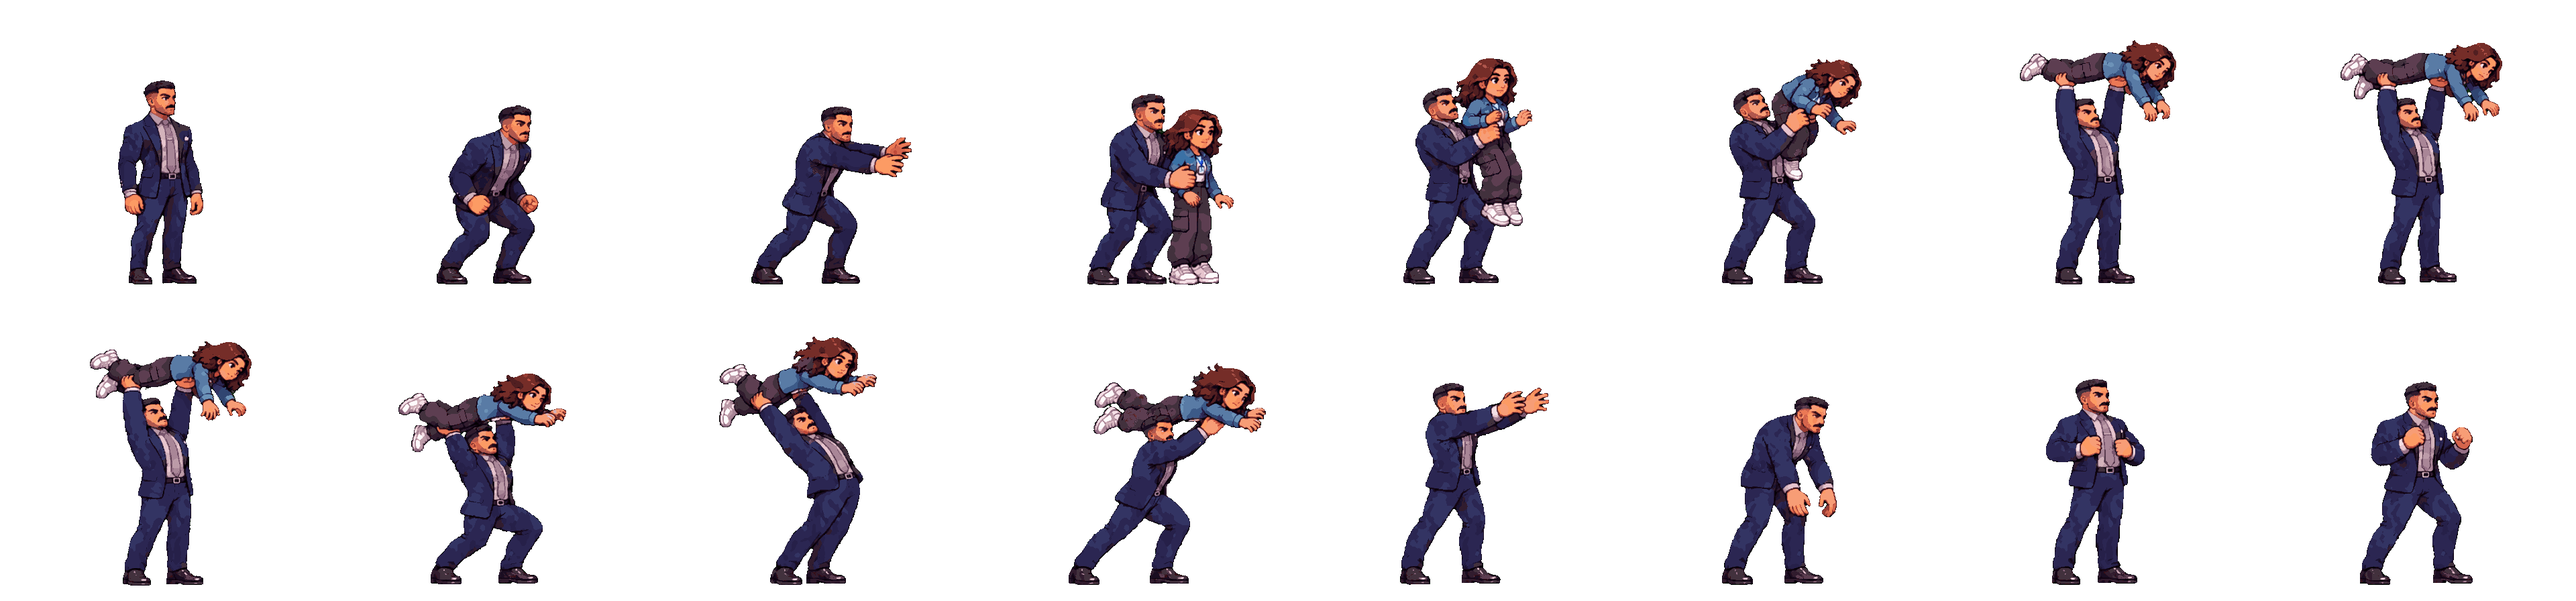
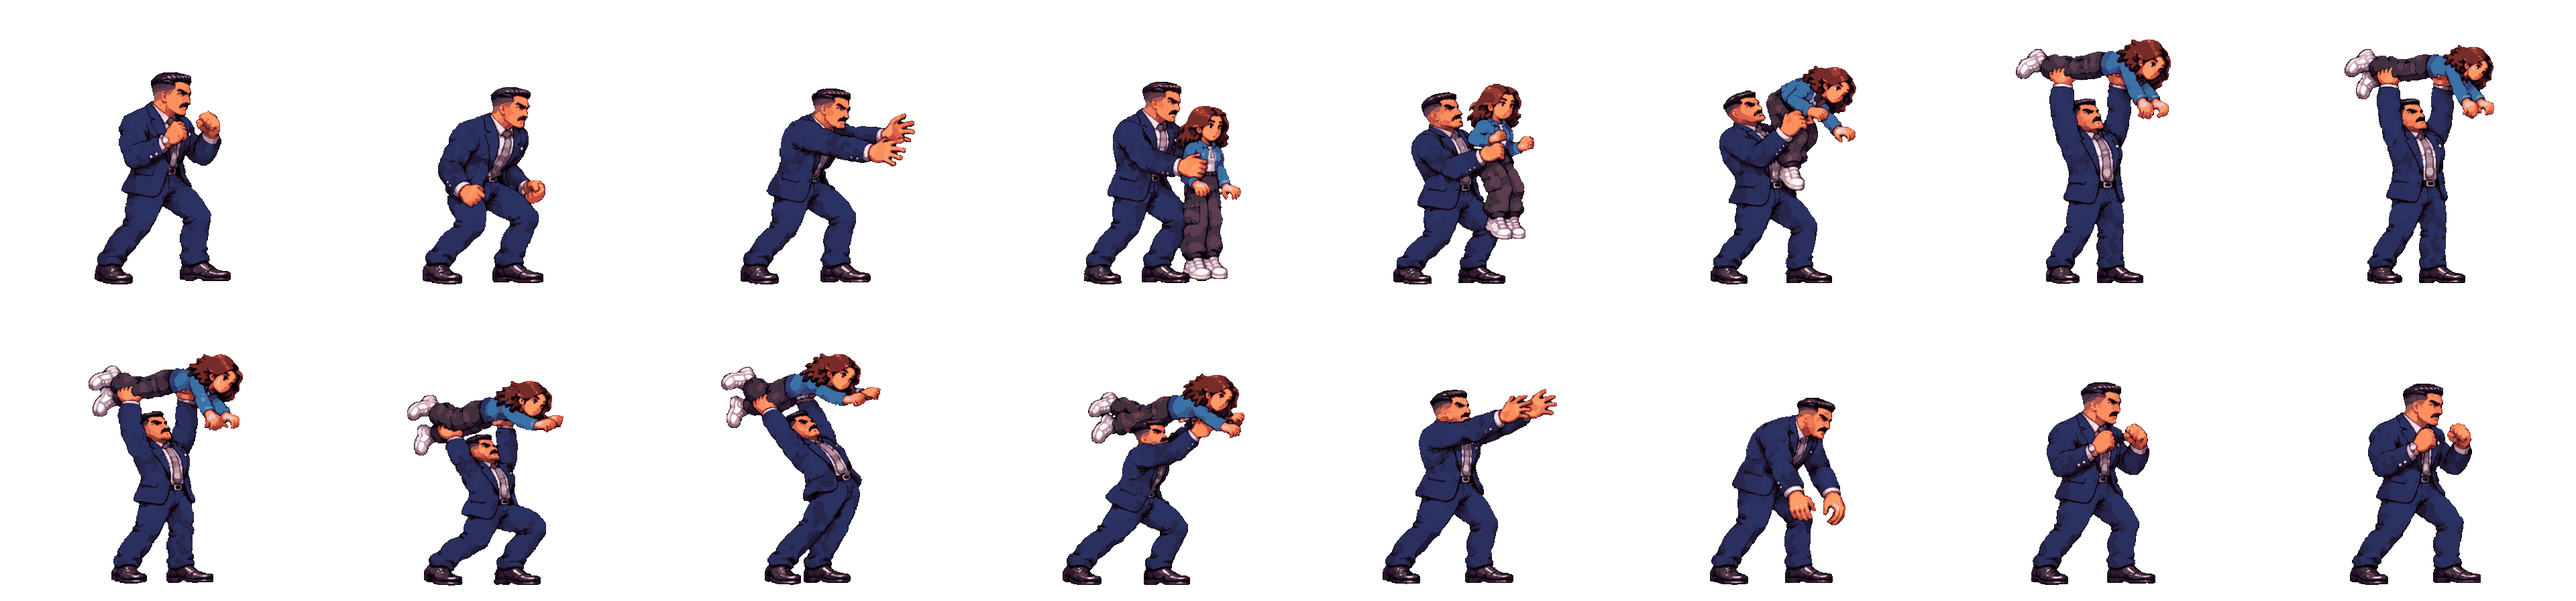
Navy redone from scratch: new model sheet, fighting-stance idle, smooth 8-frame walk and run, new punch, kick, hit reactions, defeat, flex and grab (Zee at her real size), front/back idle, walk and run; enemies now run when far away

diff --git a/src/enemy.js b/src/enemy.js
@@ -1,8 +1,8 @@
 // Enemy: a fighter with a small brain. It lines up with Zee, flanks, chains combos, sidesteps her swings, punishes her recovery,
 // throws call-centre headsets, and (navy + sporty, the "heavies") grabs and throws her.
 // Art comes from assets/characters/<id>/ ; every enemy shares this one brain.
-import { CONFIG } from './config.js?v=202611272112';
-import { frameAt, drawAnim, drawShadow, LOOK } from './assets.js?v=202611272112';
+import { CONFIG } from './config.js?v=202611280008';
+import { frameAt, drawAnim, drawShadow, LOOK } from './assets.js?v=202611280008';
 
 const E = CONFIG.enemy;
 const rnd = (a, b) => a + Math.random() * (b - a);
@@ -30,6 +30,8 @@ const WALK_STYLE = {
 };
 const ACCEL = 560;                                                // px/s^2: enemies speed up and slow down instead of snapping
 
+// running: starts when it is further than RUN_FROM px from its spot by her, stops inside RUN_UNTIL; RUN_SPEED = x walking pace, RUN_STEP = x stride length
+const RUN_FROM = 230, RUN_UNTIL = 120, RUN_SPEED = 1.9, RUN_STEP = 1.7;
 const CLAMP_DX = { navy: 52, sporty: 48 };
 const RELEASE = { navy: { dx: 92, z: 78 }, sporty: { dx: 58, z: 46 } };
 
@@ -58,9 +60,9 @@ export class Enemy {
     this._play('idle');
   }
 
-  // idle and walk have front / back versions when the enemy has them (base = 'idle' / 'walk', animName = the real one); every other move is side-on
+  // idle, walk and run have front / back versions when the enemy has them (base = 'idle' / 'walk' / 'run', animName = the real one); every other move is side-on
   _play(name) {
-    if (name !== 'idle' && name !== 'walk') this.view = 'side';
+    if (name !== 'idle' && name !== 'walk' && name !== 'run') this.view = 'side';
     const real = this.view !== 'side' && this.anims[name + '_' + this.view] ? name + '_' + this.view : name;
     this.anim = this.anims[real]; this.animName = real; this.base = name; this.t = 0;
   }
@@ -96,7 +98,7 @@ export class Enemy {
 
   update(dt, g) {
     const rate = this.state === 'attack' ? this.atkRate : this.base === 'idle' ? (this.style.idle || 1) : 1;
-    if (this.state !== 'whiff' && this.base !== 'walk') this.t += dt * rate;   // the walk loop is advanced by distance walked (see _stride)
+    if (this.state !== 'whiff' && !(this.base === 'walk' || this.base === 'run')) this.t += dt * rate;   // the walk loop is advanced by distance walked (see _stride)
     this.flash = Math.max(0, this.flash - dt);
     this.tellT = Math.max(0, this.tellT - dt); this.squash = Math.max(0, this.squash - dt * 6);
     // body hits the floor (knockdown / KO): dust cloud once
@@ -130,8 +132,8 @@ export class Enemy {
 
   // Advance the walk loop by the distance covered (negative = walking backwards): one step = one pass through the 12-frame loop.
   _stride(d) {
-    const dur = this.anim.duration;
-    this.stride = (((this.stride + d / this.stepLen) % 1) + 1) % 1;
+    const dur = this.anim.duration, len = this.base === 'run' ? this.stepLen * RUN_STEP : this.stepLen;   // running strides are longer
+    this.stride = (((this.stride + d / len) % 1) + 1) % 1;
     this.t = this.stride * dur;
   }
   // Ease the velocity toward a target (no sudden starts, stops or reversals).
@@ -193,7 +195,7 @@ export class Enemy {
       const wait = g.attackerCount() >= g.maxAttackers && !this.attacking && this.side !== behind;   // the attack slots are full: hover just outside her reach (backstabbers never wait)
       let mx = 0, my = 0;
       if (calm) {                                                     // she is beaten: step back off her body and stand around her
-        this.mx = adx < 70 ? -sgn(dx || 1) * 0.6 : 0; this.my = 0;
+        this.mx = adx < 70 ? -sgn(dx || 1) * 0.6 : 0; this.my = 0; this.running = false;
       }
       else {
         const tx = z.x + this.side * (wait ? E.attackRange + 34 : E.attackRange * 0.8);
@@ -201,7 +203,10 @@ export class Enemy {
         if (mySide !== this.side && adx < 95) ty = z.y + (this.lane || (this.lane = (Math.random() < 0.5 ? -1 : 1))) * 34;   // going round her: swing out in depth first
         else this.lane = 0;
         const ex = tx - this.x, ey = ty - this.y;
-        if (Math.abs(ex) > 7) mx = sgn(ex) * (Math.abs(ex) > 170 ? 1.3 : 1);                            // charge in from afar
+        if (!this.anims.run) this.running = false;
+        else if (Math.abs(ex) > RUN_FROM) this.running = true;                                           // far off: run at her
+        else if (Math.abs(ex) < RUN_UNTIL) this.running = false;                                        // close: drop back to a walk
+        if (Math.abs(ex) > 7) mx = sgn(ex) * (this.running ? RUN_SPEED : Math.abs(ex) > 170 ? 1.3 : 1);   // charge in from afar
         if (Math.abs(ey) > 5) my = sgn(ey) * (mySide !== this.side ? 1.2 : 0.85);
         this.mx = mx; this.my = my;
       }
@@ -225,7 +230,8 @@ export class Enemy {
       const px = this.x, py = this.y;
       this.x += this.vw * dt; this.y += this.vh * dt;
       this.still = 0;
-      if (this.state !== 'walk') { this.state = 'walk'; this._play('walk'); this.t = this.stride * this.anim.duration; }
+      const gait = this.running && this.anims.run ? 'run' : 'walk';
+      if (this.state !== 'walk' || this.base !== gait) { this.state = 'walk'; this._play(gait); this.t = this.stride * this.anim.duration; }
       this._turnView();
       const d = Math.hypot(this.x - px, this.y - py);
       this._stride(d * (this.view !== 'side' || Math.abs(this.vw) < 14 || sgn(this.vw) === this.face ? 1 : -1));      // backwards only while turning round

diff --git a/src/main.js b/src/main.js
@@ -1,14 +1,14 @@
 // Game shell: loads Zee, runs the loop, draws the placeholder office + HUD, wires pause / touch UI.
-import { CONFIG } from './config.js?v=202611272112';
-import { loadCharacter, VERSION, LOOK, setLight } from './assets.js?v=202611272112';
-import { Input } from './input.js?v=202611272112';
-import { Zee } from './zee.js?v=202611272112';
-import { Game } from './game.js?v=202611272112';
-import { ENEMY_IDS } from './enemy.js?v=202611272112';
-import { drawHud as drawArcadeHud } from './hud.js?v=202611272112';
-import { Level, qualityDepartment } from './level.js?v=202611272112';
-import { Camera } from './camera.js?v=202611272112';
-import { unlock } from './sfx.js?v=202611272112';
+import { CONFIG } from './config.js?v=202611280008';
+import { loadCharacter, VERSION, LOOK, setLight } from './assets.js?v=202611280008';
+import { Input } from './input.js?v=202611280008';
+import { Zee } from './zee.js?v=202611280008';
+import { Game } from './game.js?v=202611280008';
+import { ENEMY_IDS } from './enemy.js?v=202611280008';
+import { drawHud as drawArcadeHud } from './hud.js?v=202611280008';
+import { Level, qualityDepartment } from './level.js?v=202611280008';
+import { Camera } from './camera.js?v=202611280008';
+import { unlock } from './sfx.js?v=202611280008';
 
 const { w: W, h: H } = CONFIG.view;
 const canvas = document.getElementById('game');

diff --git a/src/level.js b/src/level.js
@@ -20,8 +20,8 @@
 //   light: { rim, rimAlpha, rimPx, lightX, lightY, wash, washAlpha, feet } = how Zee and the enemies are lit in this room
 //   (rim / wash are [r,g,b]); the game eases from one room's light to the next (see setLight in assets.js).
 //   doorRight is the door to the NEXT room: while it is locked the player cannot pass it; no door (or unlocked) = open.
-import { CONFIG } from './config.js?v=202611272112';
-import { VERSION } from './assets.js?v=202611272112';
+import { CONFIG } from './config.js?v=202611280008';
+import { VERSION } from './assets.js?v=202611280008';
 
 const C = CONFIG.camera, F = CONFIG.floor;
 export const LAYER_H = 507;                       // layer height in pixels (the view shows 506.25)

diff --git a/src/game.js b/src/game.js
@@ -1,9 +1,9 @@
 // Game world: Zee + enemies, combat resolution, projectiles and all the "juice" (hit flash, sparks, shake, hit-stop, sound).
-import { CONFIG } from './config.js?v=202611272112';
-import { Enemy } from './enemy.js?v=202611272112';
-import { SOFT } from './zee.js?v=202611272112';
-import { sfx } from './sfx.js?v=202611272112';
-import { drawAnim } from './assets.js?v=202611272112';
+import { CONFIG } from './config.js?v=202611280008';
+import { Enemy } from './enemy.js?v=202611280008';
+import { SOFT } from './zee.js?v=202611280008';
+import { sfx } from './sfx.js?v=202611280008';
+import { drawAnim } from './assets.js?v=202611280008';
 
 const E = CONFIG.enemy;
 

diff --git a/src/hud.js b/src/hud.js
@@ -1,8 +1,8 @@
 // Arcade HUD (early-2000s style): angled panels with white outlines, glossy bars, bold italic type.
 // Built from separate pieces drawn in game units, so it scales with the canvas at any resolution.
 // Top-left: portrait + HP bar + SP meter. Bottom-left: KO counter. All values come from the live game state.
-import { CONFIG } from './config.js?v=202611272112';
-import { VERSION } from './assets.js?v=202611272112';
+import { CONFIG } from './config.js?v=202611280008';
+import { VERSION } from './assets.js?v=202611280008';
 
 const portrait = new Image();
 portrait.src = 'assets/ui/zee_portrait.png?v=' + VERSION;

diff --git a/src/zee.js b/src/zee.js
@@ -1,7 +1,7 @@
 // Zee: the player character. A small state machine driven by input actions.
 // Movement, combat timing, and animation selection live here; art comes from the manifest (assets.js).
-import { CONFIG } from './config.js?v=202611272112';
-import { frameAt, drawAnim, drawShadow, LOOK } from './assets.js?v=202611272112';
+import { CONFIG } from './config.js?v=202611280008';
+import { frameAt, drawAnim, drawShadow, LOOK } from './assets.js?v=202611280008';
 
 const C = CONFIG.zee;
 // Front and back sheets are drawn as seen by the camera, so they are never mirrored (her badge and hand stay on the correct side).

diff --git a/src/camera.js b/src/camera.js
@@ -1,7 +1,7 @@
 // The world camera. The world is drawn through a zoomed-out camera (CONFIG.camera.zoom, about 0.71): 900 x 506 world units
 // are visible and rendered into the 640 x 360 screen. The camera follows Zee horizontally (with a little look-ahead in the
 // direction she faces) and is clamped to the level. It never scrolls vertically: the world is exactly one screen tall.
-import { CONFIG } from './config.js?v=202611272112';
+import { CONFIG } from './config.js?v=202611280008';
 
 export class Camera {
   constructor() { this.x = 0; this.px = 0; this.gx = 0; this.look = 0; this.ready = false; }

diff --git a/src/assets.js b/src/assets.js
@@ -1,6 +1,6 @@
 // Loads a character's manifest + strips and turns them into ready-to-play animation objects.
 // To swap art, replace the PNG strips / manifest in assets/characters/<name>/ - no code changes needed.
-import { CONFIG } from './config.js?v=202611272112';
+import { CONFIG } from './config.js?v=202611280008';
 
 // Release stamp, taken from this module's own URL (?v=...): every release uses new URLs so browsers never serve stale files.
 export const VERSION = new URL(import.meta.url).searchParams.get('v') || 'dev';

diff --git a/index.html b/index.html
@@ -93,7 +93,7 @@
 <div id="rotate"><div><h2>Rotate your phone</h2><p style="color:var(--mute)">This game plays in landscape.</p></div></div>
 <div id="loading"><div><div class="lt">CALL TERMINATED</div><div class="ls">is loading...</div></div></div>
 
-<script type="module" src="src/main.js?v=202611272112"></script>
+<script type="module" src="src/main.js?v=202611280008"></script>
 </body>
 </html>
 

diff --git a/src/input.js b/src/input.js
@@ -1,6 +1,6 @@
 // Unified input: keyboard on PC/laptop, floating joystick + buttons on touch devices.
 // The game only reads: input.axis (x,y in -1..1), input.run, and input.consume() (one-shot actions).
-import { CONFIG } from './config.js?v=202611272112';
+import { CONFIG } from './config.js?v=202611280008';
 
 export class Input {
   constructor(root = document) {
